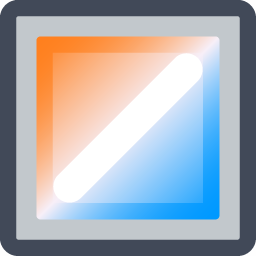
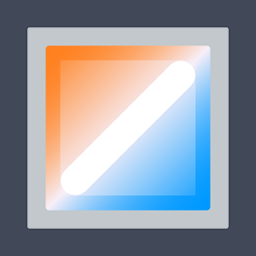
ogp設定など

diff --git a/src/components/ReflecMino.tsx b/src/components/ReflecMino.tsx
@@ -21,7 +21,6 @@ import PlayArrowIcon from '@mui/icons-material/PlayArrow'
 import ShareIcon from '@mui/icons-material/Share'
 import HomeIcon from '@mui/icons-material/Home'
 import DoneIcon from '@mui/icons-material/Done'
-import NextIcon from '@mui/icons-material/NavigateNext'
 
 const ReflecMino = (): JSX.Element => {
 
@@ -373,14 +372,21 @@ const ReflecMino = (): JSX.Element => {
                                     >
                                         HowToPlay
                                     </Typography>
+                                    <Typography
+                                        variant="h6"
+                                        marginTop={theme.spacing(0.5)}
+                                    >
+                                        すべてのタイルを光らせましょう
+                                    </Typography>
                                     < Grid
                                         container
                                         direction={"row"}
                                         flexWrap={"nowrap"}
                                         justifyContent={"flex-start"}
-                                        alignItems={"center"}
+                                        alignItems={"flex-start"}
                                         width={theme.spacing(20)}
-                                        height={theme.spacing(18)}
+                                        height={theme.spacing(16)}
+                                        marginTop={theme.spacing(0.5)}
                                         sx={{
                                             overflowX: "scroll",
                                             overflowY: "hidden",
@@ -389,31 +395,34 @@ const ReflecMino = (): JSX.Element => {
                                             }
                                         }}
                                     >
+                                        <Typography
+                                            variant="h5"
+                                            margin={`${theme.spacing(0.5)} 0 auto ${theme.spacing(2.5)}`}
+                                        >
+                                            1.
+                                        </Typography>
                                         <img
                                             src={h2p1_img}
                                             alt={"move"}
-                                            height={theme.spacing(16)}
-                                            style={{
-                                                marginLeft: theme.spacing(3.8)
-                                            }}
+                                            height={theme.spacing(15)}
                                         />
-                                        <NextIcon
-                                            fontSize={"large"}
-                                            sx={{
-                                                height: theme.spacing(16)
-                                            }}
-                                        />
+                                        <Typography
+                                            variant="h5"
+                                            margin={`${theme.spacing(0.5)} 0 auto ${theme.spacing(1.5)}`}
+                                        >
+                                            2.
+                                        </Typography>
                                         <img
                                             src={h2p2_img}
                                             alt={"move"}
-                                            height={theme.spacing(16)}
+                                            height={theme.spacing(15)}
                                         />
-                                        <NextIcon
-                                            fontSize={"large"}
-                                            sx={{
-                                                height: theme.spacing(16)
-                                            }}
-                                        />
+                                        <Typography
+                                            variant="h5"
+                                            margin={`${theme.spacing(0.5)} 0 auto ${theme.spacing(1.5)}`}
+                                        >
+                                            3.
+                                        </Typography>
                                         <Box
                                             width={"0"}
                                         >
@@ -421,17 +430,17 @@ const ReflecMino = (): JSX.Element => {
                                                 fontSize={"large"}
                                                 sx={{
                                                     position: "relative",
-                                                    top:theme.spacing(6.5),
-                                                    left:theme.spacing(5.2)
+                                                    top: theme.spacing(12.2),
+                                                    left: theme.spacing(4.75)
                                                 }}
                                             />
                                         </Box>
                                         <img
                                             src={h2p3_img}
                                             alt={"move"}
-                                            height={theme.spacing(16)}
+                                            height={theme.spacing(15)}
                                             style={{
-                                                paddingRight: theme.spacing(3.8)
+                                                paddingRight: theme.spacing(4.2)
                                             }}
                                         />
                                     </Grid>

diff --git a/public/index.html b/public/index.html
@@ -1,20 +1,25 @@
 <!DOCTYPE html>
-<html lang="en">
-    <head>
-        <meta charset="utf-8" />
-        <link rel="icon" href="%PUBLIC_URL%/favicon.ico" />
-        <meta name="viewport" content="width=device-width, initial-scale=1" />
-        <meta name="theme-color" content="#000000" />
-        <meta
-            name="description"
-            content="A daily reflection puzzle"
-        />
-        <link rel="apple-touch-icon" href="%PUBLIC_URL%/icon.png" />
-        <link rel="manifest" href="%PUBLIC_URL%/manifest.json" />
-        <title>ReflecMino</title>
-    </head>
-    <body>
-        <noscript>You need to enable JavaScript to run this app.</noscript>
-        <div id="root"></div>
-    </body>
+<html lang="ja">
+
+<head>
+    <meta charset="utf-8" />
+    <link rel="icon" href="%PUBLIC_URL%/favicon.ico" />
+    <meta name="viewport" content="width=device-width, initial-scale=1" />
+    <meta name="theme-color" content="#32373f" />
+    <meta property="og:url" content="https://yavu.github.io/yv_reflecmino/">
+    <meta property="og:type" content="product">
+    <meta property="og:title" content="ReflecMino">
+    <meta property="og:description" content="日替わりレーザーパズル">
+    <meta property="og:site_name" content="ReflecMino">
+    <meta property="og:image" content="%PUBLIC_URL%/thumbnail.png">
+    <link rel="apple-touch-icon" href="%PUBLIC_URL%/icon.png" />
+    <link rel="manifest" href="%PUBLIC_URL%/manifest.json" />
+    <title>ReflecMino</title>
+</head>
+
+<body>
+    <noscript>You need to enable JavaScript to run this app.</noscript>
+    <div id="root"></div>
+</body>
+
 </html>
